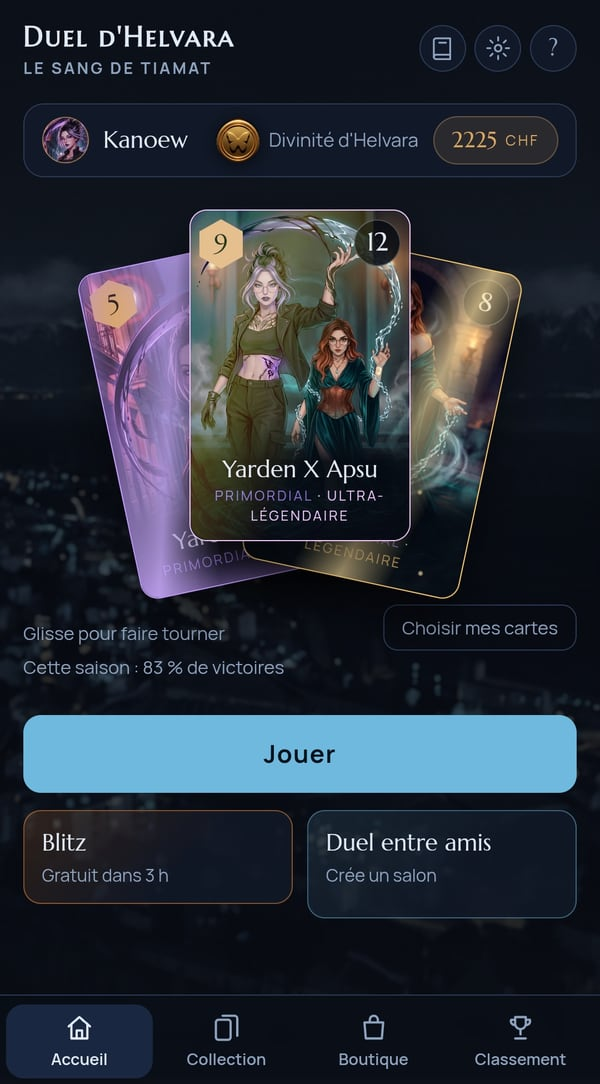
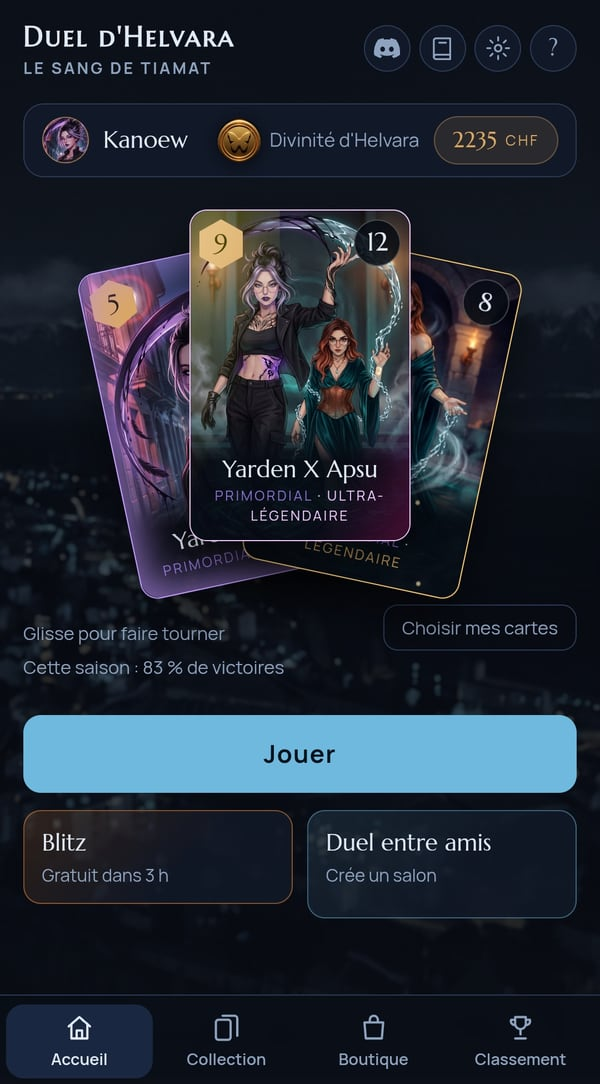
Vitrine de l'accueil : les cartes glissent avec le doigt ; capture d'accueil du README mise à jour

diff --git a/index.html b/index.html
@@ -3084,12 +3084,57 @@ document.addEventListener("pointerdown", e=>{
 });
 ["pointerup","pointercancel","pointerleave"].forEach(t=>document.addEventListener(t,()=>clearTimeout(lpTimer)));
 document.addEventListener("contextmenu", e=>{ if(e.target.closest("[data-lp]")) e.preventDefault(); });
-let fanStart=null, fanSwiped=0;
-document.addEventListener("pointerdown", e=>{ fanStart=e.target.closest(".fan")?{x:e.clientX,y:e.clientY}:null; });
-document.addEventListener("pointerup", e=>{
-  if(!fanStart) return; const dx=e.clientX-fanStart.x, dy=e.clientY-fanStart.y; fanStart=null;
-  if(Math.abs(dx)>35&&Math.abs(dx)>Math.abs(dy)){ fanSwiped=Date.now(); fanRotate(dx<0?1:-1); }
-});
+/* Vitrine qui glisse : pendant le geste, les trois cartes suivent le doigt (de leur place vers la suivante) ;
+   au lâcher, elles finissent le trajet en douceur (Web Animations), puis la rotation est enregistrée et l'écran redessiné
+   dans la même position. La carte qui fait le tour passe derrière, plus petite. Mouvement réduit : rotation directe. */
+const FAN_SLOT={"-1":{ty:0,rot:-12,tx:-38,s:1},"0":{ty:-7.14,rot:0,tx:0,s:1},"1":{ty:0,rot:12,tx:38,s:1}}, FAN_MID={ty:-2,rot:0,tx:0,s:.78};
+const fanTf=q=>`translateY(${q.ty}%) rotate(${q.rot}deg) translateX(${q.tx}%) scale(${q.s})`;
+const fanLerp=(a,b,t)=>({ty:a.ty+(b.ty-a.ty)*t,rot:a.rot+(b.rot-a.rot)*t,tx:a.tx+(b.tx-a.tx)*t,s:a.s+(b.s-a.s)*t});
+const fanWrap=(pos,step)=>Math.abs(pos-step)>1;
+function fanAt(pos,step,t){ /* step 1 : les cartes partent vers la gauche ; celle de gauche fait le tour par derrière */
+  if(!fanWrap(pos,step)) return fanLerp(FAN_SLOT[pos],FAN_SLOT[pos-step],t);
+  return t<.5?fanLerp(FAN_SLOT[pos],FAN_MID,t*2):fanLerp(FAN_MID,FAN_SLOT[-pos],(t-.5)*2); }
+function fanZ(pos,step,t){ if(fanWrap(pos,step)) return 0; if(pos-step===0) return t>.5?3:2; if(pos===0) return t>.5?2:3; return 1; }
+const fanOp=(pos,step,t)=>fanWrap(pos,step)?1-.45*Math.sin(Math.PI*t):1;
+function fanSet(d){ for(const c of d.cards){ c.el.style.top="6%"; c.el.style.transition="none"; c.el.style.transform=fanTf(fanAt(c.pos,d.step,d.t)); c.el.style.zIndex=fanZ(c.pos,d.step,d.t); c.el.style.opacity=fanOp(c.pos,d.step,d.t); } }
+function fanGrab(fanEl,x,y){
+  const cards=[...fanEl.querySelectorAll(".fcard")].map(el=>({el,pos:+el.dataset.pos}));
+  if(cards.length!==3||!cards.every(c=>c.pos>=-1&&c.pos<=1)) return null;
+  return {x,y,cards,w:fanEl.offsetWidth||300,step:0,t:0,on:false};
+}
+let fanDrag=null, fanBusy=false, fanSwiped=0;
+function fanFinish(d,commit){
+  fanBusy=true; const t1=commit?1:0, steps=8, dur=Math.max(140,320*Math.abs(t1-d.t));
+  for(const c of d.cards){
+    const fr=[]; for(let i=0;i<=steps;i++){ const t=d.t+(t1-d.t)*i/steps; fr.push({transform:fanTf(fanAt(c.pos,d.step,t)),opacity:fanOp(c.pos,d.step,t)}); }
+    c.el.style.zIndex=fanZ(c.pos,d.step,commit?1:0);
+    c.anim=c.el.animate(fr,{duration:dur,easing:"cubic-bezier(.22,.8,.3,1)",fill:"forwards"});
+  }
+  setTimeout(()=>{ fanBusy=false;
+    if(commit) fanRotate(d.step);
+    else for(const c of d.cards){ if(c.anim) c.anim.cancel(); c.el.style.cssText=""; } },dur+20);
+}
+function fanSlide(step){ /* toucher une carte de côté : même glissement, sans geste */
+  const f=document.querySelector(".fan"), d=f&&!fanBusy&&!matchMedia("(prefers-reduced-motion: reduce)").matches?fanGrab(f,0,0):null;
+  if(!d){ if(!fanBusy) fanRotate(step); return; }
+  d.step=step; d.on=true; fanSet(d); fanFinish(d,true);
+}
+document.addEventListener("pointerdown", e=>{ const f=e.target.closest(".fan"); fanDrag=f&&!fanBusy&&!matchMedia("(prefers-reduced-motion: reduce)").matches?fanGrab(f,e.clientX,e.clientY):null;
+  if(!fanDrag&&f&&!fanBusy) fanDrag={x:e.clientX,y:e.clientY,plain:true}; });
+document.addEventListener("pointermove", e=>{
+  const d=fanDrag; if(!d||d.plain) return; const dx=e.clientX-d.x, dy=e.clientY-d.y;
+  if(!d.on){ if(Math.abs(dy)>12&&Math.abs(dy)>Math.abs(dx)){ fanDrag=null; return; } if(Math.abs(dx)<8) return; d.on=true; }
+  d.step=dx<0?1:-1; d.t=Math.min(1,Math.abs(dx)/(d.w*.45)); fanSet(d);
+},{passive:true});
+function fanRelease(e,cancel){
+  const d=fanDrag; fanDrag=null; if(!d) return;
+  const dx=e.clientX-d.x, dy=e.clientY-d.y, swipe=!cancel&&Math.abs(dx)>35&&Math.abs(dx)>Math.abs(dy);
+  if(d.plain){ if(swipe){ fanSwiped=Date.now(); fanRotate(dx<0?1:-1); } return; }
+  if(!d.on) return;
+  fanSwiped=Date.now(); fanFinish(d,swipe||(!cancel&&d.t>.3));
+}
+document.addEventListener("pointerup", e=>fanRelease(e,false));
+document.addEventListener("pointercancel", e=>fanRelease(e,true));
 document.addEventListener("click", e=>{
   if(lpFired){ lpFired=false; e.preventDefault(); e.stopPropagation(); return; }
   if(Date.now()-fanSwiped<400){ fanSwiped=0; e.preventDefault(); return; } /* le clic qui suit un glissement */
@@ -3120,7 +3165,7 @@ document.addEventListener("click", e=>{
     case "fanclose": fanPick=null; render(); return;
     case "fansave": if(fanPick.length===3){ P.fan=[...fanPick]; save(); sfx("buff"); } fanPick=null; render(); return;
     case "zoom": zoomId=el.dataset.id; sfx("select"); render(); return;
-    case "fantap": { const pos=+el.dataset.pos; if(pos===0){ zoomId=el.dataset.id; sfx("select"); render(); } else fanRotate(pos); return; }
+    case "fantap": { const pos=+el.dataset.pos; if(pos===0){ zoomId=el.dataset.id; sfx("select"); render(); } else fanSlide(pos); return; }
     case "unzoom": if(el.classList.contains("veil")&&e.target.closest(".zoominfo")) return; zoomId=null; render(); return;
     case "avpick": avPick=true; sfx("click"); render(); return;
     case "avclose": if(el.classList.contains("veil")&&e.target.closest(".avpanel")) return; avPick=false; render(); return;

diff --git a/CLAUDE.md b/CLAUDE.md
@@ -126,6 +126,7 @@ Autres réglages selon le type de carte :
   - `LAYER` : briques sur un lieu (`rise`, `burst`, `smoke`, `rays`, `vortex`, `rings`, `chains`, `sweep`, `sparkle`, `flicker`).
   - `SCREEN` : ambiances plein écran, ultra-légendaires seulement (`rain`, `petals`, `embers`, `lightning`, `snow`, `dust`, `bubbles`).
   - Les légendaires et ultra-légendaires en grand s'inclinent sous le doigt (`.full.tilt`). Les ultra-légendaires ont en plus leur ambiance en boucle dans l'illustration.
+- **Vitrine de l'accueil** (`vitrineHTML`, `fanRotate`) : les cartes suivent le doigt pendant le geste (`fanSet`, positions `FAN_SLOT`, la carte qui fait le tour passe derrière par `FAN_MID`), puis finissent le trajet par Web Animations (`fanFinish`) avant que la rotation soit enregistrée ; toucher une carte de côté fait le même glissement (`fanSlide`). Geste trop court : retour en place. Mouvement réduit : rotation directe.
 - **Discord** : `DISCORD` (lien d'invitation), bouton dans l'en-tête à côté des quêtes, hors écran de partie seulement.
 - **Langue** : `trUI()` et `translateDOM()`. Le texte est écrit en français dans le code, puis traduit à l'affichage.
 
